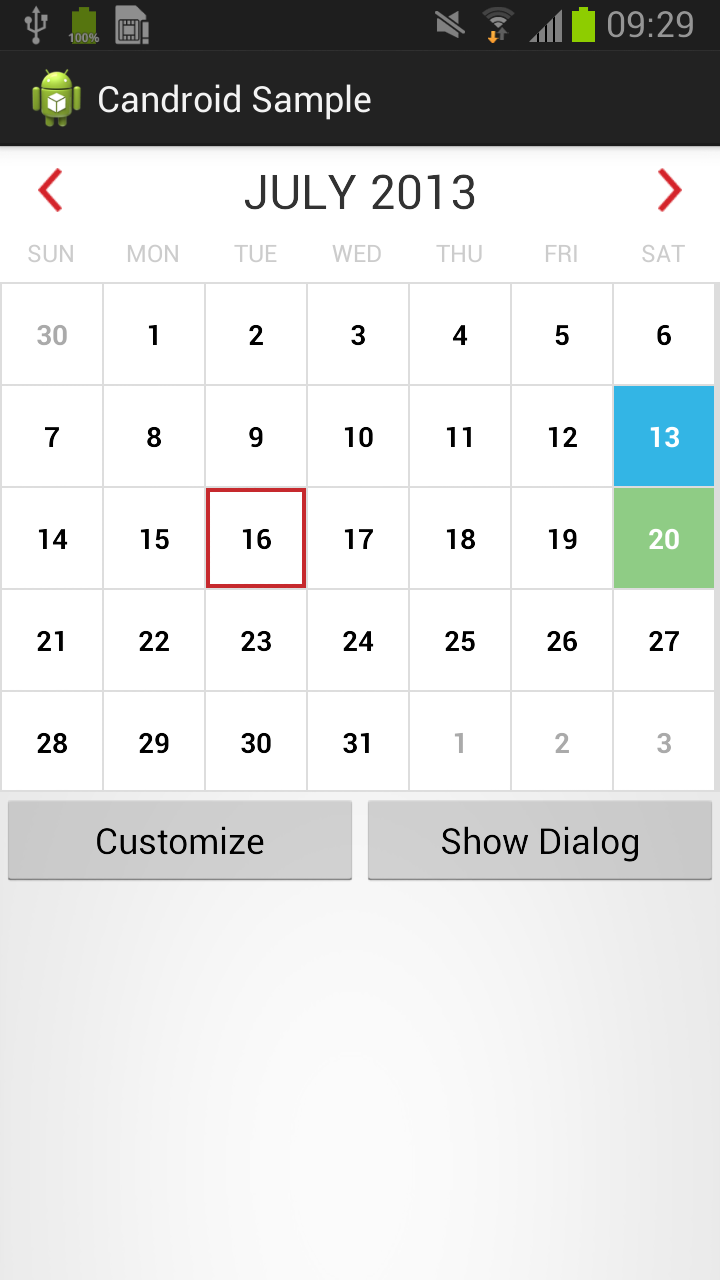
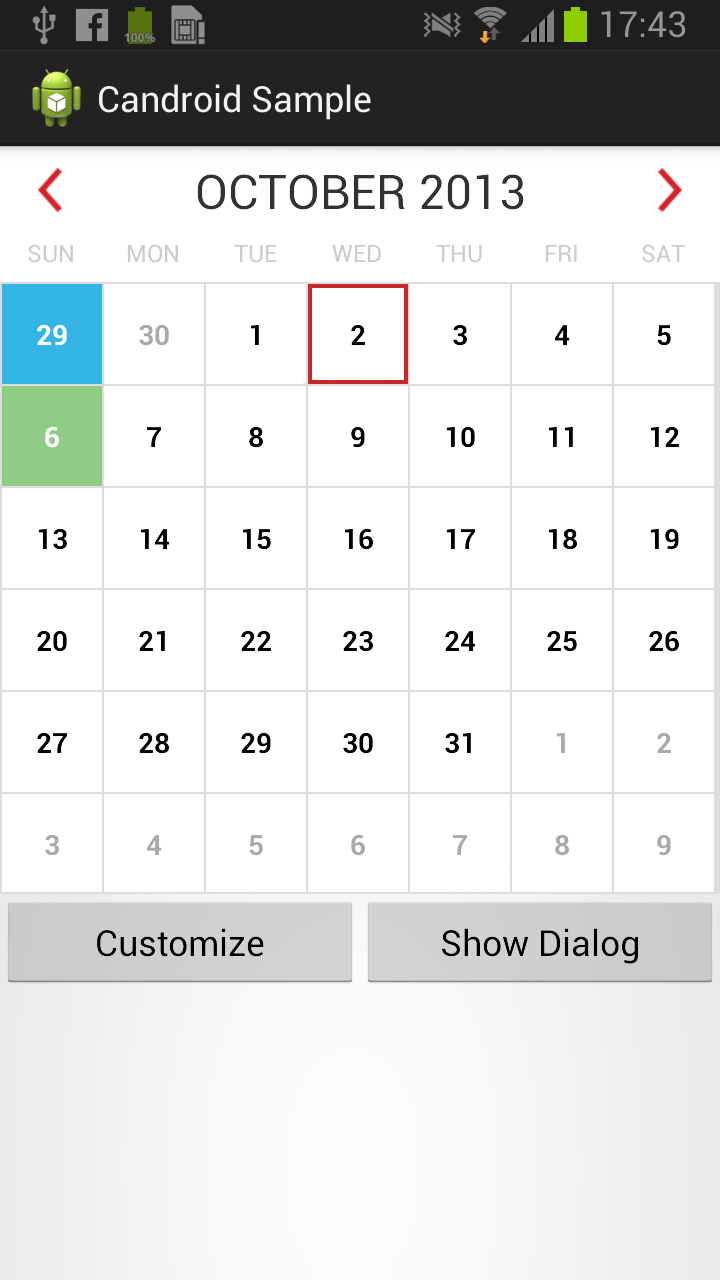
Rename FIT_ALL_MONTHS to SIX_WEEKS_IN_CALENDAR and display extra weeks if this value is true

diff --git a/library/src/com/roomorama/caldroid/CaldroidFragment.java b/library/src/com/roomorama/caldroid/CaldroidFragment.java
@@ -118,7 +118,7 @@ public class CaldroidFragment extends DialogFragment {
 	public final static String MAX_DATE = "maxDate";
 	public final static String ENABLE_SWIPE = "enableSwipe";
 	public final static String START_DAY_OF_WEEK = "startDayOfWeek";
-	public final static String FIT_ALL_MONTHS = "fitAllMonths";
+	public final static String SIX_WEEKS_IN_CALENDAR = "sixWeeksInCalendar";
 
 	/**
 	 * For internal use
@@ -169,7 +169,7 @@ public class CaldroidFragment extends DialogFragment {
 	 * A calendar height is not fixed, it may have 5 or 6 rows. Set fitAllMonths
 	 * to true so that the calendar will always have 6 rows
 	 */
-	private boolean fitAllMonths = true;
+	private boolean sixWeeksInCalendar = true;
 
 	/**
 	 * datePagerAdapters hold 4 adapters, meant to be reused
@@ -261,6 +261,7 @@ public class CaldroidFragment extends DialogFragment {
 		caldroidData.put(_MIN_DATE_TIME, minDateTime);
 		caldroidData.put(_MAX_DATE_TIME, maxDateTime);
 		caldroidData.put(START_DAY_OF_WEEK, Integer.valueOf(startDayOfWeek));
+		caldroidData.put(SIX_WEEKS_IN_CALENDAR, Boolean.valueOf(sixWeeksInCalendar));
 
 		// For internal use
 		caldroidData
@@ -389,7 +390,7 @@ public class CaldroidFragment extends DialogFragment {
 		bundle.putBoolean(SHOW_NAVIGATION_ARROWS, showNavigationArrows);
 		bundle.putBoolean(ENABLE_SWIPE, enableSwipe);
 		bundle.putInt(START_DAY_OF_WEEK, startDayOfWeek);
-		bundle.putBoolean(FIT_ALL_MONTHS, fitAllMonths);
+		bundle.putBoolean(SIX_WEEKS_IN_CALENDAR, sixWeeksInCalendar);
 
 		return bundle;
 	}
@@ -703,17 +704,14 @@ public class CaldroidFragment extends DialogFragment {
 		}
 	}
 
-	public boolean isFitAllMonths() {
-		return fitAllMonths;
+	
+	public boolean isSixWeeksInCalendar() {
+		return sixWeeksInCalendar;
 	}
 
-	/**
-	 * A calendar height is not fixed, it may have 5 or 6 rows. Set fitAllMonths
-	 * to true so that the calendar will always have 6 rows
-	 */
-	public void setFitAllMonths(boolean fitAllMonths) {
-		this.fitAllMonths = fitAllMonths;
-		dateViewPager.setFitAllMonths(fitAllMonths);
+	public void setSixWeeksInCalendar(boolean sixWeeksInCalendar) {
+		this.sixWeeksInCalendar = sixWeeksInCalendar;
+		dateViewPager.setSixWeeksInCalendar(sixWeeksInCalendar);
 	}
 
 	/**
@@ -895,7 +893,7 @@ public class CaldroidFragment extends DialogFragment {
 			enableSwipe = args.getBoolean(ENABLE_SWIPE, true);
 
 			// Get fitAllMonths
-			fitAllMonths = args.getBoolean(FIT_ALL_MONTHS, true);
+			sixWeeksInCalendar = args.getBoolean(SIX_WEEKS_IN_CALENDAR, true);
 
 			// Get disable dates
 			ArrayList<String> disableDateStrings = args
@@ -1056,7 +1054,7 @@ public class CaldroidFragment extends DialogFragment {
 		// Get current date time
 		DateTime currentDateTime = new DateTime(year, month, 1, 0, 0, 0, 0);
 		dateInMonthsList = CalendarHelper.getFullWeeks(month, year,
-				startDayOfWeek);
+				startDayOfWeek, sixWeeksInCalendar);
 
 		// Set to pageChangeListener
 		pageChangeListener = new DatePageChangeListener();
@@ -1105,7 +1103,7 @@ public class CaldroidFragment extends DialogFragment {
 		dateViewPager.setEnabled(enableSwipe);
 
 		// Set if viewpager wrap around particular month or all months (6 rows)
-		dateViewPager.setFitAllMonths(fitAllMonths);
+		dateViewPager.setSixWeeksInCalendar(sixWeeksInCalendar);
 
 		// Set the dateInMonthsList to dateViewPager so it can calculate the
 		// height correctly

diff --git a/library/src/com/antonyt/infiniteviewpager/InfiniteViewPager.java b/library/src/com/antonyt/infiniteviewpager/InfiniteViewPager.java
@@ -36,7 +36,7 @@ public class InfiniteViewPager extends ViewPager {
 	 * A calendar height is not fixed, it may have 4, 5 or 6 rows. Set
 	 * fitAllMonths to true so that the calendar will always have 6 rows
 	 */
-	private boolean fitAllMonths = true;
+	private boolean sixWeeksInCalendar = true;
 
 	/**
 	 * Use internally to decide height of the calendar
@@ -51,16 +51,16 @@ public class InfiniteViewPager extends ViewPager {
 	public void setEnabled(boolean enabled) {
 		this.enabled = enabled;
 	}
-
-	public boolean isFitAllMonths() {
-		return fitAllMonths;
+	
+	public boolean isSixWeeksInCalendar() {
+		return sixWeeksInCalendar;
 	}
 
-	public void setFitAllMonths(boolean fitAllMonths) {
-		this.fitAllMonths = fitAllMonths;
+	public void setSixWeeksInCalendar(boolean sixWeeksInCalendar) {
+		this.sixWeeksInCalendar = sixWeeksInCalendar;
 		rowHeight = 0;
 	}
-
+	
 	public ArrayList<DateTime> getDateInMonthsList() {
 		return dateInMonthsList;
 	}
@@ -157,7 +157,7 @@ public class InfiniteViewPager extends ViewPager {
 		// Calculate height of the calendar
 		int calHeight = 0;
 		// If fitAllMonths, we need 6 rows
-		if (fitAllMonths) {
+		if (sixWeeksInCalendar) {
 			calHeight = rowHeight * 6;
 		} else { // Otherwise we return correct number of rows
 			calHeight = rowHeight * rows;

diff --git a/library/src/com/roomorama/caldroid/CaldroidGridAdapter.java b/library/src/com/roomorama/caldroid/CaldroidGridAdapter.java
@@ -40,6 +40,7 @@ public class CaldroidGridAdapter extends BaseAdapter {
 	protected DateTime maxDateTime;
 	protected DateTime today;
 	protected int startDayOfWeek;
+	protected boolean sixWeeksInCalendar;
 	protected Resources resources;
 
 	/**
@@ -55,7 +56,7 @@ public class CaldroidGridAdapter extends BaseAdapter {
 		this.month = dateTime.getMonth();
 		this.year = dateTime.getYear();
 		this.datetimeList = CalendarHelper.getFullWeeks(this.month, this.year,
-				startDayOfWeek);
+				startDayOfWeek, sixWeeksInCalendar);
 	}
 
 	// GETTERS AND SETTERS
@@ -167,9 +168,11 @@ public class CaldroidGridAdapter extends BaseAdapter {
 				.get(CaldroidFragment._MAX_DATE_TIME);
 		startDayOfWeek = (Integer) caldroidData
 				.get(CaldroidFragment.START_DAY_OF_WEEK);
+		sixWeeksInCalendar = (Boolean) caldroidData
+				.get(CaldroidFragment.SIX_WEEKS_IN_CALENDAR);
 
 		this.datetimeList = CalendarHelper.getFullWeeks(this.month, this.year,
-				startDayOfWeek);
+				startDayOfWeek, sixWeeksInCalendar);
 	}
 
 	protected DateTime getToday() {

diff --git a/library/src/com/roomorama/caldroid/CalendarHelper.java b/library/src/com/roomorama/caldroid/CalendarHelper.java
@@ -30,7 +30,7 @@ public class CalendarHelper {
 			"yyyy-MM-dd", Locale.ENGLISH);;
 
 	public static ArrayList<DateTime> getFullWeeks(int month, int year,
-			int startDayOfWeek) {
+			int startDayOfWeek, boolean sixWeeksInCalendar) {
 		ArrayList<DateTime> datetimeList = new ArrayList<DateTime>();
 
 		DateTime firstDateOfMonth = new DateTime(year, month, 1, 0, 0, 0, 0);
@@ -78,6 +78,18 @@ public class CalendarHelper {
 				if (nextDay.getWeekDay() == endDayOfWeek) {
 					break;
 				}
+			}
+		}
+		
+		// Add more weeks to fill remaining rows
+		if (sixWeeksInCalendar) {
+			int size = datetimeList.size();
+			int row = size/7;
+			int numOfDays = (6-row)*7;
+			DateTime lastDateTime = datetimeList.get(size - 1);
+			for (int i = 1; i <= numOfDays; i++) {
+				DateTime nextDateTime = lastDateTime.plusDays(i);
+				datetimeList.add(nextDateTime);
 			}
 		}
 

diff --git a/demo/src/com/candroidsample/CaldroidSampleActivity.java b/demo/src/com/candroidsample/CaldroidSampleActivity.java
@@ -76,7 +76,7 @@ public class CaldroidSampleActivity extends FragmentActivity {
 			args.putInt(CaldroidFragment.MONTH, cal.get(Calendar.MONTH) + 1);
 			args.putInt(CaldroidFragment.YEAR, cal.get(Calendar.YEAR));
 			args.putBoolean(CaldroidFragment.ENABLE_SWIPE, true);
-			args.putBoolean(CaldroidFragment.FIT_ALL_MONTHS, false);
+			args.putBoolean(CaldroidFragment.SIX_WEEKS_IN_CALENDAR, true);
 
 			// Uncomment this to customize startDayOfWeek
 			// args.putInt(CaldroidFragment.START_DAY_OF_WEEK,

diff --git a/README.md b/README.md
@@ -54,7 +54,7 @@ public final static String MIN_DATE = "minDate";
 public final static String MAX_DATE = "maxDate";
 public final static String ENABLE_SWIPE = "enableSwipe";
 public final static String START_DAY_OF_WEEK = "startDayOfWeek";
-public final static String FIT_ALL_MONTHS = "fitAllMonths";
+public final static String SIX_WEEKS_IN_CALENDAR = "sixWeeksInCalendar";
 ```
 
 To customize the startDayOfWeek, just use 
@@ -288,8 +288,8 @@ else {
   args.putInt(CaldroidFragment.MONTH, cal.get(Calendar.MONTH) + 1);
   args.putInt(CaldroidFragment.YEAR, cal.get(Calendar.YEAR));
   args.putBoolean(CaldroidFragment.ENABLE_SWIPE, true);
-  args.putBoolean(CaldroidFragment.FIT_ALL_MONTHS, false);
-	caldroidFragment.setArguments(args);
+  args.putBoolean(CaldroidFragment.SIX_WEEKS_IN_CALENDAR, false);
+  caldroidFragment.setArguments(args);
 }
 
 ```
@@ -410,6 +410,7 @@ As most of Caldroid public API use Date instead of internal DateTime, you might 
 
 3) The package is renamed from ```com.caldroid``` to ```com.roomorama.caldroid```.
 
+4) The ```FIT_ALL_MONTH``` key has been renamed to ```SIX_WEEKS_IN_CALENDAR```. The display of calendar also depends on this parameter: if it is true, calendar always display 6 weeks in a calendar. Else, calendar will resize dynamically to the dates gridview.
 
 License
 =======
